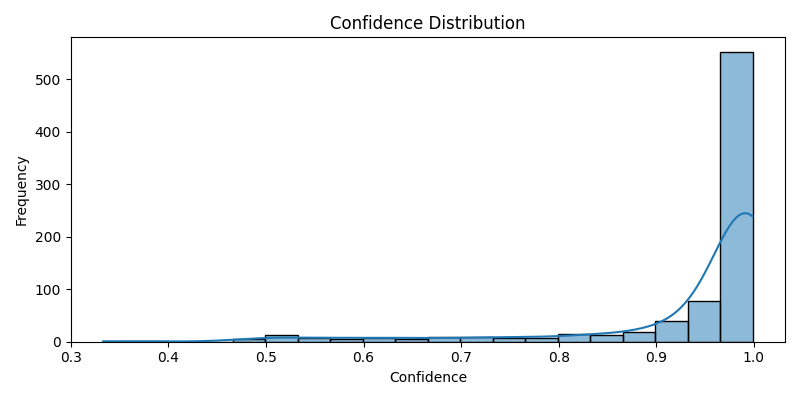
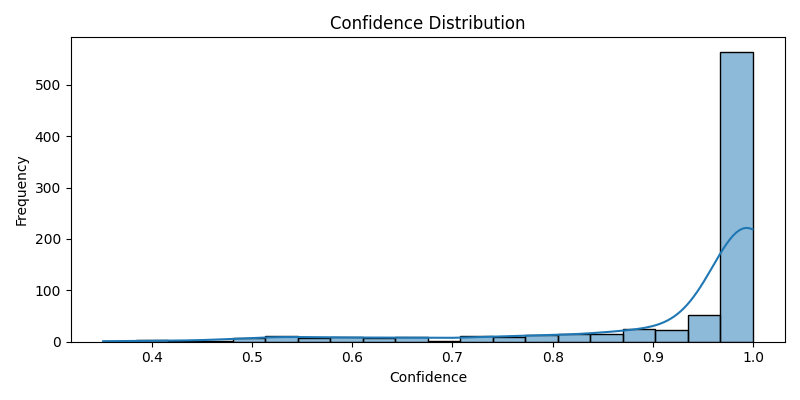
Refactor model training script and add review generation functionality; update .gitignore and upload model to Hugging Face

diff --git a/src/train.py b/src/train.py
@@ -9,6 +9,7 @@ from transformers import DistilBertTokenizerFast, DistilBertForSequenceClassific
 from sklearn.preprocessing import LabelEncoder
 import matplotlib.pyplot as plt
 import seaborn as sns
+from transformers import EarlyStoppingCallback
 
 # Load cleaned data
 df = pd.read_csv('data/sample_data_cleaned.csv')
@@ -20,10 +21,12 @@ y = df['category_encoded'].tolist()
 # Split data
 X_train, X_test, y_train, y_test = train_test_split(X, y, test_size=0.2, random_state=42, stratify=y)
 
-# Load tokenizer and model
+device = torch.device('cuda' if torch.cuda.is_available() else 'cpu')
+print(f"Using device: {device}")
 tokenizer = DistilBertTokenizerFast.from_pretrained('distilbert-base-uncased')
 num_labels = len(set(y))
 model = DistilBertForSequenceClassification.from_pretrained('distilbert-base-uncased', num_labels=num_labels)
+model.to(device)
 
 # Tokenize
 train_encodings = tokenizer(X_train, truncation=True, padding=True, max_length=128)
@@ -35,8 +38,8 @@ class ReviewDataset(torch.utils.data.Dataset):
 		self.encodings = encodings
 		self.labels = labels
 	def __getitem__(self, idx):
-		item = {key: torch.tensor(val[idx]) for key, val in self.encodings.items()}
-		item['labels'] = torch.tensor(self.labels[idx])
+		item = {key: torch.tensor(val[idx]).to(device) for key, val in self.encodings.items()}
+		item['labels'] = torch.tensor(self.labels[idx]).to(device)
 		return item
 	def __len__(self):
 		return len(self.labels)
@@ -44,16 +47,20 @@ class ReviewDataset(torch.utils.data.Dataset):
 train_dataset = ReviewDataset(train_encodings, y_train)
 test_dataset = ReviewDataset(test_encodings, y_test)
 
+callbacks=[EarlyStoppingCallback(early_stopping_patience=2)]
 training_args = TrainingArguments(
 	output_dir='output/results/distilbert_results',
-	num_train_epochs=2,
+	num_train_epochs=4,
 	per_device_train_batch_size=16,
 	per_device_eval_batch_size=16,
 	eval_strategy="epoch",
-	save_strategy="no",
+	save_strategy="epoch",
 	logging_dir='output/logs/distilbert_logs',
 	logging_steps=50,
 	report_to=[],
+	metric_for_best_model="eval_loss",
+	greater_is_better=False,
+	load_best_model_at_end=True,
 )
 
 trainer = Trainer(
@@ -61,6 +68,7 @@ trainer = Trainer(
 	args=training_args,
 	train_dataset=train_dataset,
 	eval_dataset=test_dataset,
+	callbacks=callbacks
 )
 
 trainer.train()

diff --git a/make_data_gemini.py b/make_data_gemini.py
@@ -1,0 +1,47 @@
+"""
+Created as part of Liberty Infospace hiring test – not for production use without candidate's consent
+Author: Sayantan Ghosh
+GitHub: https://github.com/lazy-coder-03
+"""
+
+import google.generativeai as genai
+import pandas as pd
+import os
+
+# Configure Gemini
+genai.configure(api_key=os.getenv("GEMINI_API_KEY"))
+
+categories = ["Billing Issue", "Technical Problem", "Compliment", "Product Question", "Complaint"]
+
+def generate_reviews(category, num=1000):
+    """Generate realistic customer reviews for a given category using Gemini"""
+    reviews = []
+    batch_size = 200
+    try:
+        model = genai.GenerativeModel("gemini-1.5-flash")
+        for i in range(0, num, batch_size):
+            print(f"Generating reviews {i+1} to {min(i+batch_size, num)} for category '{category}'...")
+            prompt = f"""
+            Write {batch_size} short, realistic, human-like customer reviews (1–2 sentences each).
+            Each review should be plausible for a business software product and fall under the category: {category}.
+            Do NOT number or bullet them, just return raw reviews line by line.
+            """
+            response = model.generate_content(prompt)
+            batch_reviews = response.text.strip().split("\n")
+            reviews.extend([{"query": r.strip(), "category": category} for r in batch_reviews if r.strip()])
+        return reviews[:num]
+    except Exception as e:
+        print(f"Error generating reviews for category '{category}': {e}")
+        return []
+
+all_reviews = []
+for cat in categories:
+    all_reviews.extend(generate_reviews(cat, num=1000))
+
+# Save to CSV
+df = pd.DataFrame(all_reviews)
+os.makedirs("data", exist_ok=True)
+df.to_csv("data/sample_data.csv", index=False)
+
+print(f"✅ Generated dataset with {len(df)} samples saved to data/train_data.csv")
+print(df.head(10))

diff --git a/upload_to_hf.py b/upload_to_hf.py
@@ -1,0 +1,8 @@
+from huggingface_hub import HfApi
+import os
+api = HfApi(token=os.getenv("HF_TOKEN"))
+api.upload_folder(
+    folder_path="model/distilbert_model",
+    repo_id="Lazycoder03/DistilBERT-Customer-Review-Classifier",
+    repo_type="model",
+)
